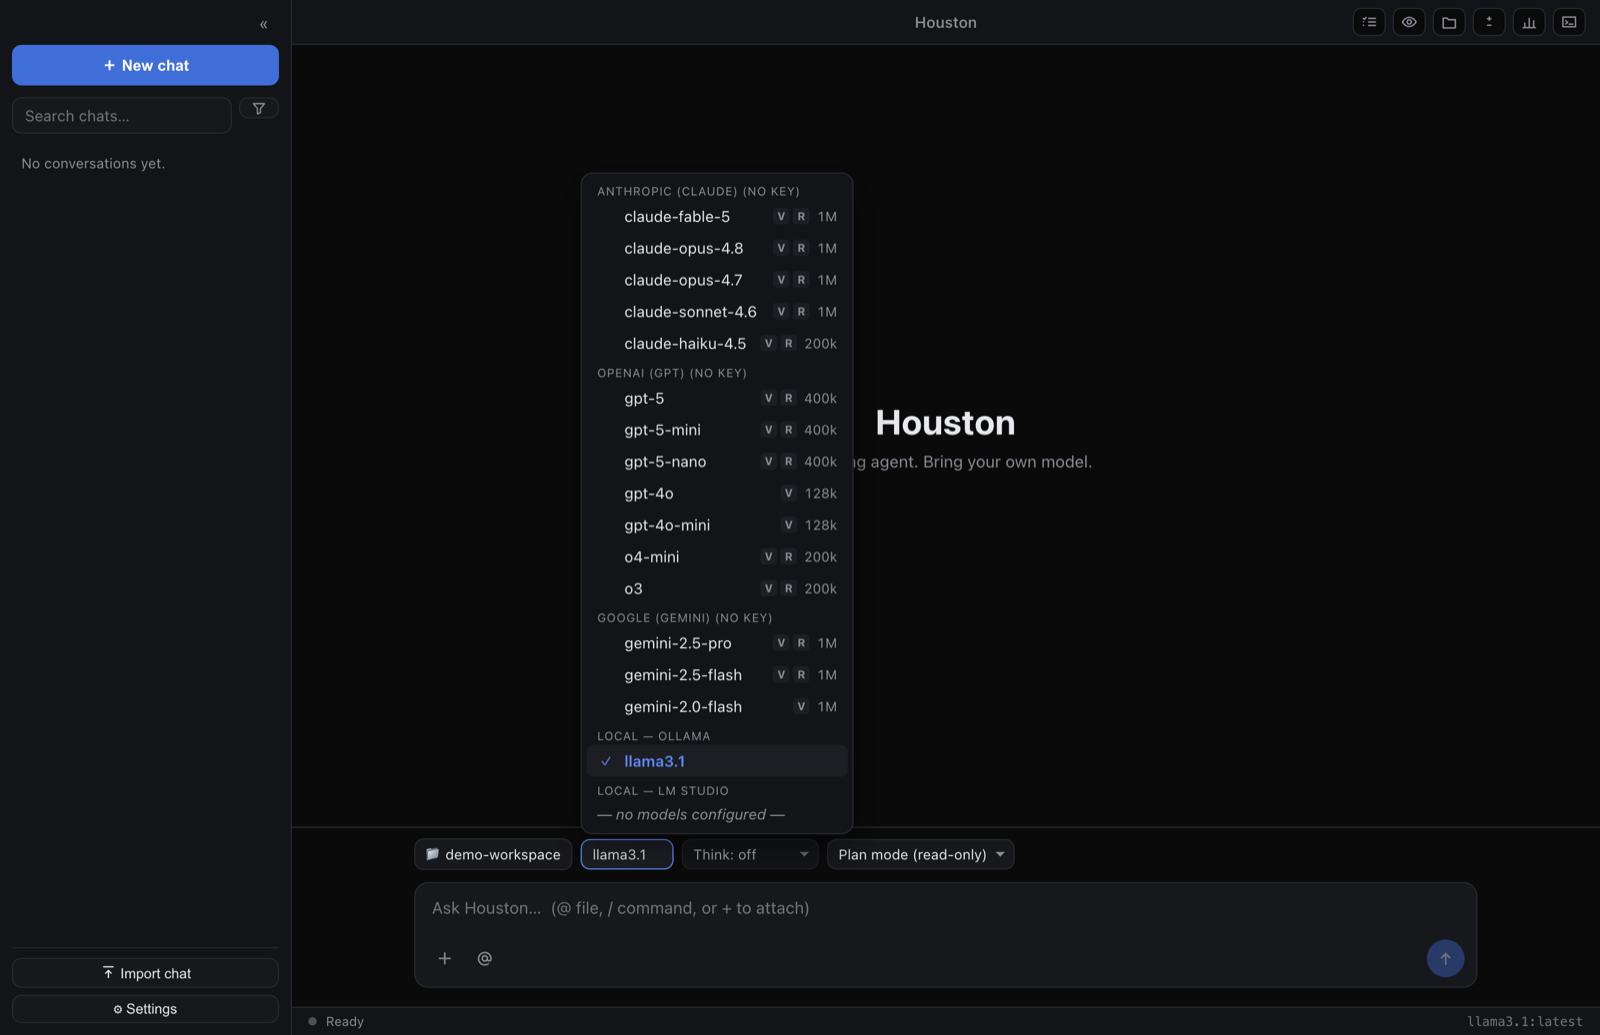
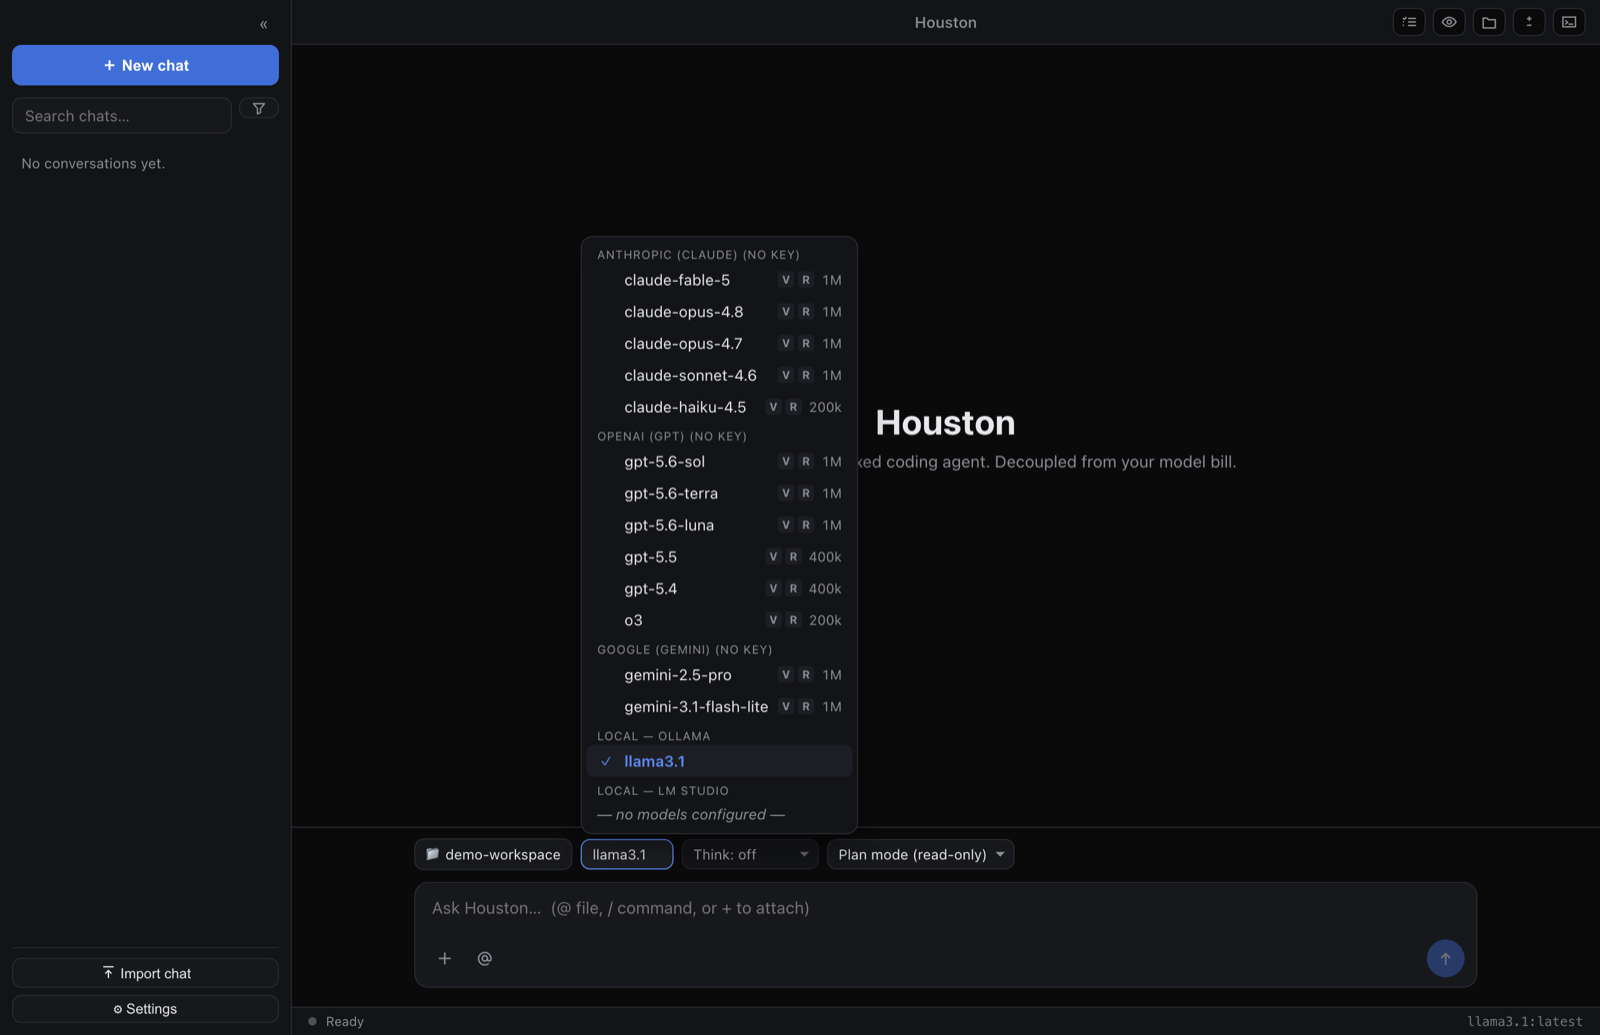
website: fix Linux download links and bring site copy up to date
- Linux download buttons matched `-x64.AppImage` / `-x64.deb`, but
  electron-builder names those `-x86_64.AppImage` and `-amd64.deb`, so both
  would have fallen back to the generic releases page. Same fix in the README
  install table and GPG example. New download-links test derives the real
  filenames from electron-builder.yml and fails on any suffix no build produces.
- Recapture the model-picker screenshot against current defaults (it showed
  gpt-4o, o4-mini, gemini-2.0-flash) and fix capture-screens.mjs, which still
  waited on the removed legal gate and a settings.json the app no longer
  writes on first launch.
- Copy: approval modes use their real names; subagents and custom agents can
  be writable (read-only by default); mention Claude via Bedrock, Vertex AI,
  and Foundry; "M1 or newer" instead of "M1–M4".
- Privacy page canonical, sitemap, llms.txt, and footer point at /privacy
  (Cloudflare 308s /privacy.html there); homepage sitemap lastmod refreshed.

diff --git a/website/public/index.html b/website/public/index.html
@@ -87,7 +87,7 @@
           {
             "@type": "Question",
             "name": "Which AI models does Houston work with?",
-            "acceptedAnswer": { "@type": "Answer", "text": "Claude, GPT, Gemini, any OpenAI-compatible endpoint, and local models via Ollama or LM Studio. You can switch models per conversation, and the picker shows each model's context window and capabilities." }
+            "acceptedAnswer": { "@type": "Answer", "text": "Claude (directly, or through Amazon Bedrock, Google Vertex AI, or Microsoft Foundry), GPT, Gemini, any OpenAI-compatible endpoint, and local models via Ollama or LM Studio. You can switch models per conversation, and the picker shows each model's context window and capabilities." }
           },
           {
             "@type": "Question",
@@ -194,7 +194,7 @@
           <article class="feature">
             <div class="feature-icon"><svg viewBox="0 0 24 24" fill="none" stroke="currentColor" stroke-width="2" stroke-linecap="round" stroke-linejoin="round" aria-hidden="true"><path d="M12 22s8-4 8-10V5l-8-3-8 3v7c0 6 8 10 8 10z"/></svg></div>
             <h3>Approval-gated and sandboxed</h3>
-            <p>Choose plan, ask, auto, or full-auto. Every consequential action is reviewable, and where the OS supports it, shell commands run confined to a best-effort sandbox.</p>
+            <p>Choose plan mode, ask every time, auto-approve edits, or full auto. Every consequential action is reviewable, and where the OS supports it, shell commands run confined to a best-effort sandbox.</p>
           </article>
           <article class="feature">
             <div class="feature-icon"><svg viewBox="0 0 24 24" fill="none" stroke="currentColor" stroke-width="2" stroke-linecap="round" stroke-linejoin="round" aria-hidden="true"><path d="M12 3a9 9 0 1 0 9 9M12 3v9l6-3"/></svg></div>
@@ -209,12 +209,12 @@
           <article class="feature">
             <div class="feature-icon"><svg viewBox="0 0 24 24" fill="none" stroke="currentColor" stroke-width="2" stroke-linecap="round" stroke-linejoin="round" aria-hidden="true"><path d="M9 3v18M15 3v18M3 9h18M3 15h18"/></svg></div>
             <h3>Subagents &amp; adversarial review</h3>
-            <p>Hand focused, read-only questions to subagents with fresh context, and run a multi-agent review that checks your diff for correctness, security, and quality, then verifies its own findings.</p>
+            <p>Hand focused tasks to subagents with fresh context (read-only research, or approval-gated edits), and run a multi-agent review that checks your diff for correctness, security, and quality, then verifies its own findings.</p>
           </article>
           <article class="feature">
             <div class="feature-icon"><svg viewBox="0 0 24 24" fill="none" stroke="currentColor" stroke-width="2" stroke-linecap="round" stroke-linejoin="round" aria-hidden="true"><rect x="3" y="3" width="18" height="18" rx="2"/><path d="M9 9h6v6H9z"/></svg></div>
             <h3>MCP, agents &amp; skills</h3>
-            <p>Connect Model Context Protocol servers over stdio, HTTP, or SSE, with one-click OAuth sign-in for hosted servers. Define custom read-only agents and on-demand skills with a Markdown file. Houston picks up your project's own conventions too.</p>
+            <p>Connect Model Context Protocol servers over stdio, HTTP, or SSE, with one-click OAuth sign-in for hosted servers. Define custom agents (read-only by default) and on-demand skills with a Markdown file. Houston picks up your project's own conventions too.</p>
           </article>
         </div>
       </div>
@@ -230,7 +230,7 @@
           <article class="dl-card" data-os="mac-arm">
             <div class="os-icon"><svg viewBox="0 0 24 24" fill="currentColor" aria-hidden="true"><path d="M12.152 6.896c-.948 0-2.415-1.078-3.96-1.04-2.04.027-3.91 1.183-4.961 3.014-2.117 3.675-.546 9.103 1.519 12.09 1.013 1.454 2.208 3.09 3.792 3.037 1.52-.065 2.09-.987 3.935-.987 1.831 0 2.35.987 3.96.948 1.637-.026 2.676-1.48 3.676-2.948 1.156-1.688 1.636-3.325 1.662-3.415-.039-.013-3.182-1.221-3.22-4.857-.026-3.04 2.48-4.494 2.597-4.559-1.429-2.09-3.623-2.324-4.39-2.376-2-.156-3.675 1.09-4.61 1.09zM15.53 3.83c.843-1.012 1.4-2.427 1.245-3.83-1.207.052-2.662.805-3.532 1.818-.78.896-1.454 2.338-1.273 3.714 1.338.104 2.715-.688 3.559-1.701"/></svg></div>
             <h3>macOS · Apple Silicon</h3>
-            <p class="os-req">macOS 13 Ventura or newer (M1–M4)</p>
+            <p class="os-req">macOS 13 Ventura or newer (M1 or newer)</p>
             <div class="dl-links">
               <a class="btn btn-primary dl-primary" data-asset-suffix="-arm64.dmg" href="https://github.com/houston-code/houston/releases/latest">Download .dmg</a>
               <span class="dl-sub">Auto-updates via the built-in feed.</span>
@@ -259,8 +259,8 @@
             <h3>Linux</h3>
             <p class="os-req">glibc 2.35+ (Ubuntu 22.04+, x64)</p>
             <div class="dl-links">
-              <a class="btn btn-secondary dl-primary" data-asset-suffix="-x64.AppImage" href="https://github.com/houston-code/houston/releases/latest">Download AppImage</a>
-              <span class="dl-sub"><a data-asset-suffix="-x64.deb" href="https://github.com/houston-code/houston/releases/latest">.deb package</a> also available.</span>
+              <a class="btn btn-secondary dl-primary" data-asset-suffix="-x86_64.AppImage" href="https://github.com/houston-code/houston/releases/latest">Download AppImage</a>
+              <span class="dl-sub"><a data-asset-suffix="-amd64.deb" href="https://github.com/houston-code/houston/releases/latest">.deb package</a> also available.</span>
             </div>
           </article>
         </div>
@@ -315,7 +315,7 @@
           </details>
           <details class="faq-item">
             <summary>Which AI models does Houston work with?</summary>
-            <p>Claude, GPT, Gemini, any OpenAI-compatible endpoint, and local models via Ollama or LM Studio. You can switch models per conversation, and the picker shows each model's context window and capabilities.</p>
+            <p>Claude (directly, or through Amazon Bedrock, Google Vertex AI, or Microsoft Foundry), GPT, Gemini, any OpenAI-compatible endpoint, and local models via Ollama or LM Studio. You can switch models per conversation, and the picker shows each model's context window and capabilities.</p>
           </details>
           <details class="faq-item">
             <summary>Does Houston send my code or data anywhere?</summary>
@@ -369,7 +369,7 @@
         </div>
         <div class="footer-col">
           <h4>Legal</h4>
-          <a href="/privacy.html">Privacy</a>
+          <a href="/privacy">Privacy</a>
           <a href="https://github.com/houston-code/houston/blob/main/LICENSE" rel="noopener">License (Apache-2.0)</a>
           <a href="https://github.com/houston-code/houston/blob/main/TRADEMARK.md" rel="noopener">Trademark policy</a>
         </div>

diff --git a/website/public/privacy.html b/website/public/privacy.html
@@ -5,7 +5,7 @@
   <meta name="viewport" content="width=device-width, initial-scale=1" />
   <title>Houston Privacy</title>
   <meta name="description" content="How Houston handles your data: it runs on your device, collects no analytics or telemetry, and your data leaves only to the providers you choose." />
-  <link rel="canonical" href="https://houstoncode.ai/privacy.html" />
+  <link rel="canonical" href="https://houstoncode.ai/privacy" />
   <meta name="theme-color" content="#0d162b" />
   <link rel="icon" type="image/png" href="/assets/icon.png" />
   <link rel="stylesheet" href="/assets/styles.css" />
@@ -54,7 +54,7 @@
     <div class="wrap">
       <div class="footer-bottom">
         <span>© <span id="year">2026</span> Houston ·
-          <a href="/privacy.html">Privacy</a> ·
+          <a href="/privacy">Privacy</a> ·
           <a href="https://github.com/houston-code/houston" rel="noopener">GitHub</a>
         </span>
       </div>

diff --git a/README.md b/README.md
@@ -412,8 +412,8 @@ Grab the artifact for your platform:
 | macOS (Apple Silicon) | macOS 13 Ventura | `Houston-<version>-arm64.dmg` — open it, drag **Houston** to Applications | Yes (via the `.zip` feed) |
 | macOS (Intel) | macOS 13 Ventura | `Houston-<version>-x64.dmg` — open it, drag **Houston** to Applications | Yes (via the `.zip` feed) |
 | Windows (x64) | Windows 10 | `Houston-<version>-x64-setup.exe` — run the installer (per-user, no admin) | Yes |
-| Linux (x64) | glibc 2.35+ (Ubuntu 22.04+ / Debian 12+ / Fedora 36+) | `Houston-<version>-x64.AppImage` — `chmod +x` and run | Yes (AppImage only) |
-| Linux (x64) | glibc 2.35+ (Ubuntu 22.04+ / Debian 12+ / Fedora 36+) | `Houston-<version>-x64.deb` — `sudo apt install ./…deb` | **No** — update via your package manager or re-download |
+| Linux (x64) | glibc 2.35+ (Ubuntu 22.04+ / Debian 12+ / Fedora 36+) | `Houston-<version>-x86_64.AppImage`: `chmod +x` and run | Yes (AppImage only) |
+| Linux (x64) | glibc 2.35+ (Ubuntu 22.04+ / Debian 12+ / Fedora 36+) | `Houston-<version>-amd64.deb`: `sudo apt install ./…deb` | **No**, update via your package manager or re-download |
 | Any (terminal only) | Node ≥ 22 | `houston-cli.cjs` — the [standalone CLI](#standalone-cli-no-desktop-app): `node houston-cli.cjs -i`, or put it on your PATH as `houston` | **No** — re-download to update |
 
 > **macOS builds are signed and notarized**, so they open with no Gatekeeper warning
@@ -878,7 +878,7 @@ gpg --verify SHA256SUMS.asc SHA256SUMS   # trust the manifest,
 sha256sum -c SHA256SUMS                   # then check your downloads against it
 
 # or verify a single Linux artifact directly:
-gpg --verify Houston-<version>-x64.AppImage.asc Houston-<version>-x64.AppImage
+gpg --verify Houston-<version>-x86_64.AppImage.asc Houston-<version>-x86_64.AppImage
 ```
 
 A `Good signature` line carrying the fingerprint above confirms authenticity. This is

diff --git a/website/README.md b/website/README.md
@@ -5,8 +5,7 @@ The marketing + download site for Houston, served at **houstoncode.ai**.
 It's a **static site — no build step, no framework, no dependencies.** Plain HTML,
 one stylesheet, one small progressive-enhancement script. The binaries are **not**
 hosted here: download buttons resolve to the public
-[the releases page](https://github.com/houston-code/houston/releases/latest)
-GitHub Releases feed, fetched live by `assets/app.js` (with a static fallback link
+[GitHub Releases feed](https://github.com/houston-code/houston/releases/latest), fetched live by `assets/app.js` (with a static fallback link
 if the API is unreachable).
 
 ## Preview locally
@@ -54,6 +53,7 @@ website/
   tools/              Build scripts (not deployed)
     build-legal.mjs       docs/PRIVACY.md → privacy.html
     build-legal.test.mjs  fails CI if the committed HTML drifts from docs/
+    download-links.test.mjs  fails CI if a download button's asset suffix matches no build
     build-og.mjs          og.svg → og.png (via the repo's Playwright Chromium)
     capture-screens.mjs   real app screenshots against a local model + demo workspace
 ```
